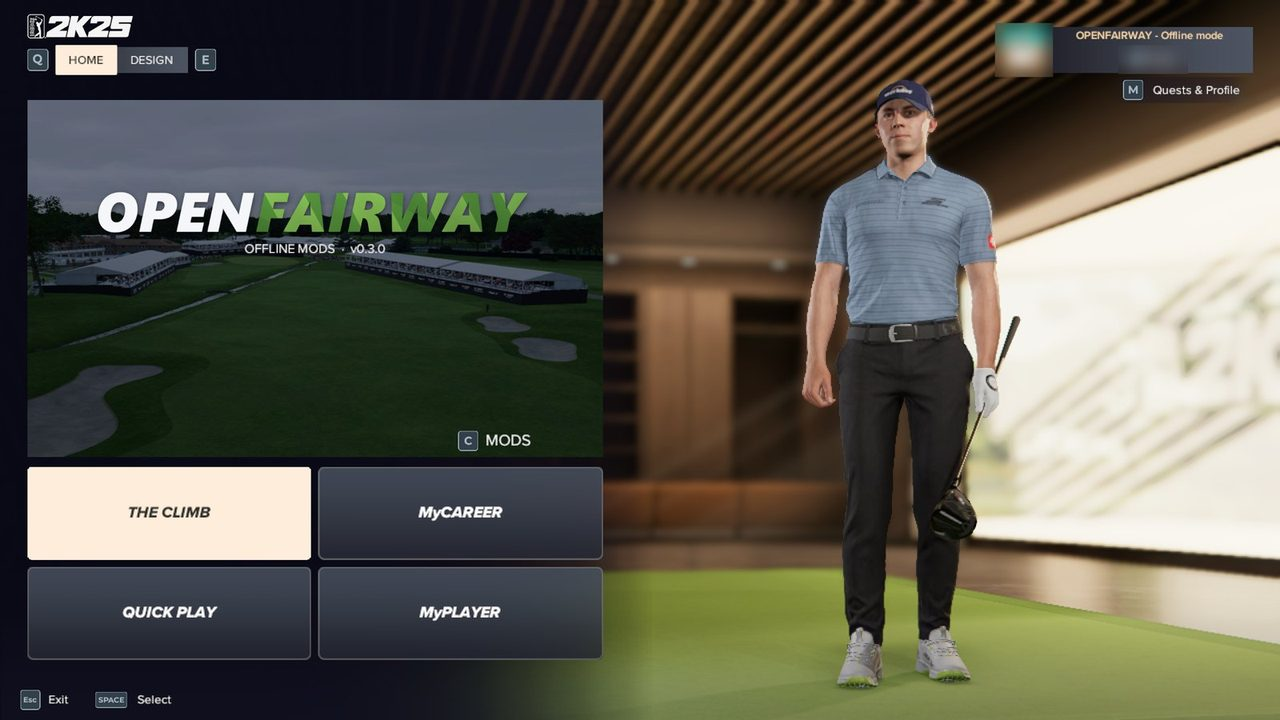
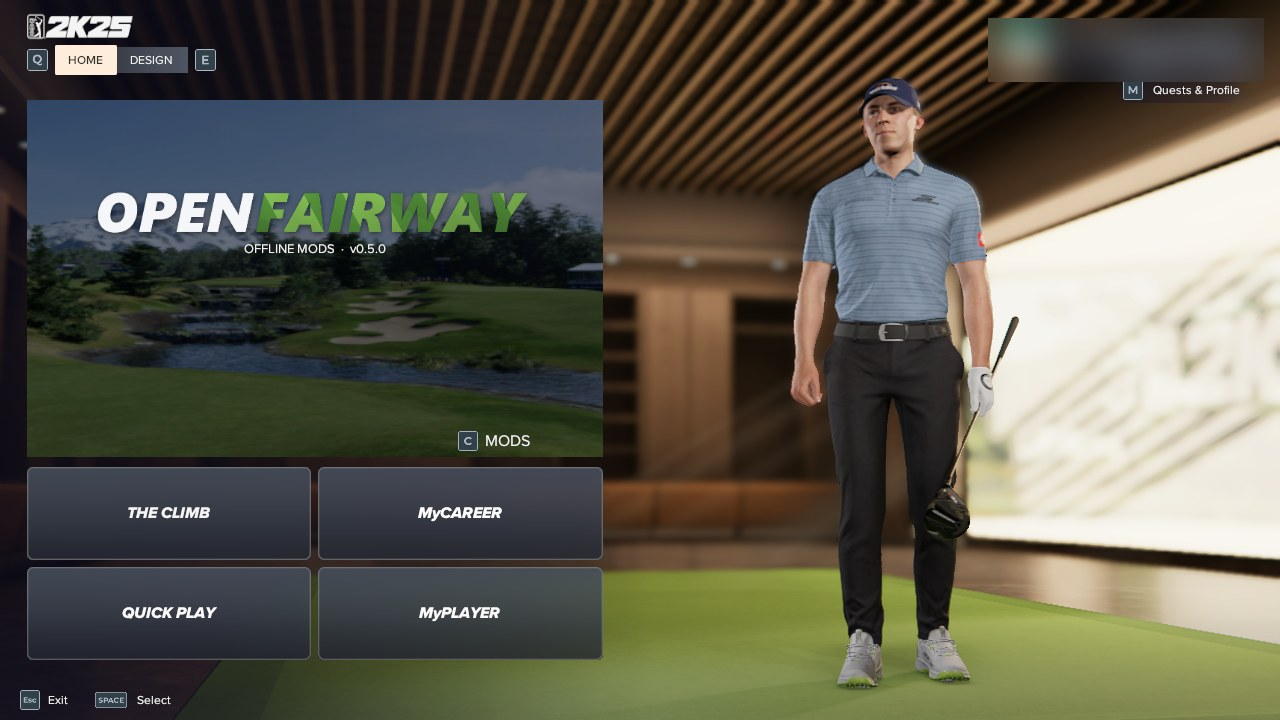
README: the 0.5.0 launcher and current in-game pictures
The launcher picture shows 0.5.0 (it was taken before the version bump),
the launcher section gains its Mods and Settings pages, and the main menu
and mod manager are captured again from 0.5.0: the banner says v0.5.0 and
the mod manager lists all five mods. The profile card stays blurred.

diff --git a/README.md b/README.md
@@ -20,7 +20,7 @@ PGA TOUR. It runs inside your own copy of the game, offline only, and unlocks no
 | | |
 |---|---|
 | ![Main menu](docs/images/menu.jpg) | ![Mod manager](docs/images/mods.jpg) |
-| **Offline main menu.** The game boots straight into an offline menu that only shows what works offline. | **Mods, switched in game.** A mod manager in the game's own style, and the same switches in the launcher. |
+| **Offline main menu.** The game boots straight into an offline menu that only shows what works offline. | **Mods, switched in game.** A mod manager in the game's own style (F8 anywhere), and the same switches in the launcher. |
 | ![MyPLAYER](docs/images/myplayer.jpg) | ![Golf bag](docs/images/golf-bag.jpg) |
 | **MyPLAYER offline.** Create and edit your golfer: appearance, hair, outfits, golf bag. | **Clubs level up offline.** Rounds you play award club, ball and golfer XP; each club level unlocks an upgrade. |
 | ![MyCAREER](docs/images/mycareer.jpg) | ![Gameplay](docs/images/gameplay.jpg) |
@@ -55,6 +55,11 @@ Nothing to pre-install, no firewall rule, no admin rights.
 - **What's new** shows the release notes of every version. **Settings** has the launcher's behaviour, update checks,
   the key that opens the mod manager in game (F8), launch options for the game, a Steam file check, and switches for
   mod makers (detailed log, developer console).
+
+| | |
+|---|---|
+| ![Mods in the launcher](docs/images/launcher-mods.jpg) | ![Launcher settings](docs/images/launcher-settings.jpg) |
+| **Mods.** Each mod opens to what it does, what it needs and how it did last time. | **Settings.** Saved as you change them; they apply the next time you play. |
 
 The launcher contacts GitHub, and only GitHub, to look for updates and read release notes; nothing about you is
 sent, and Settings can switch it off. The game itself always runs offline with mods.
